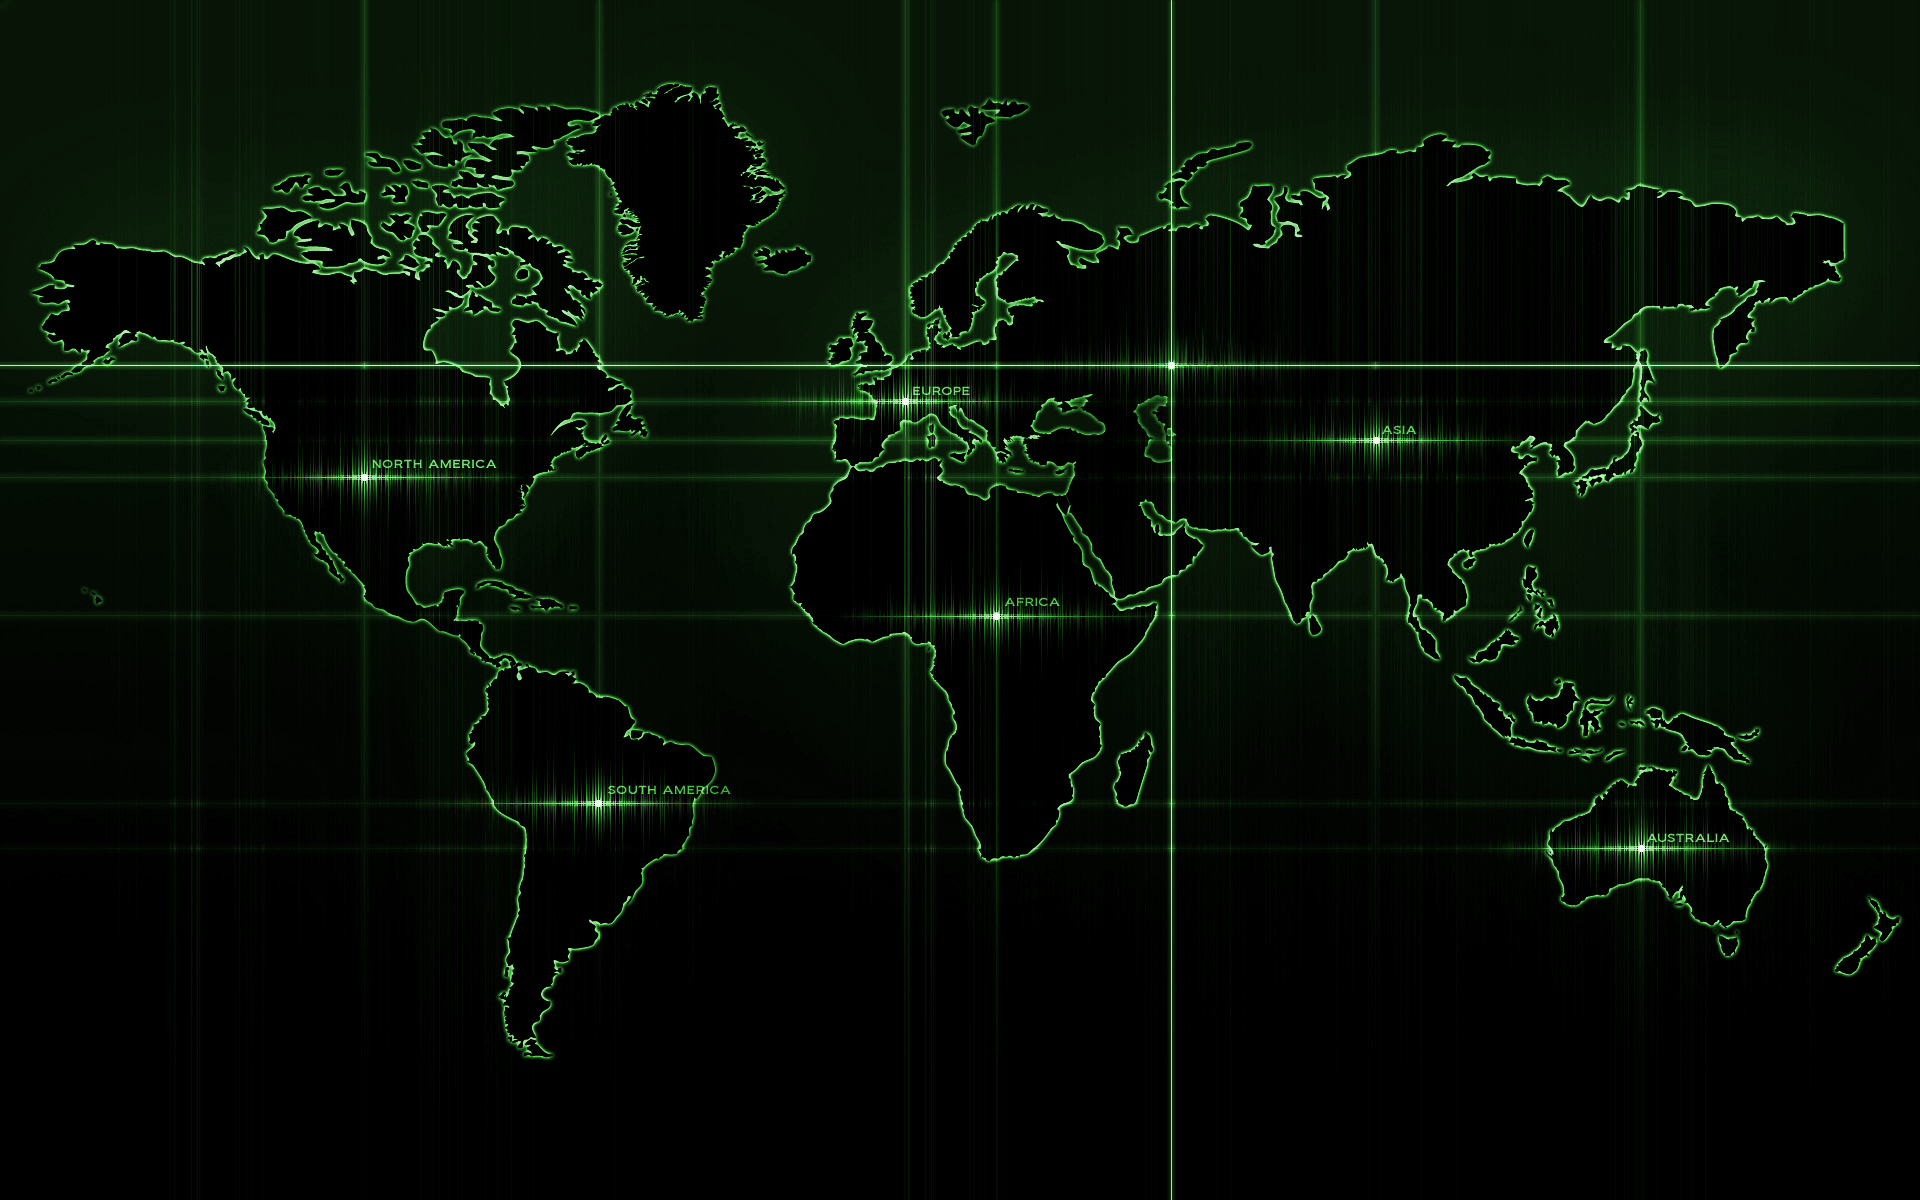
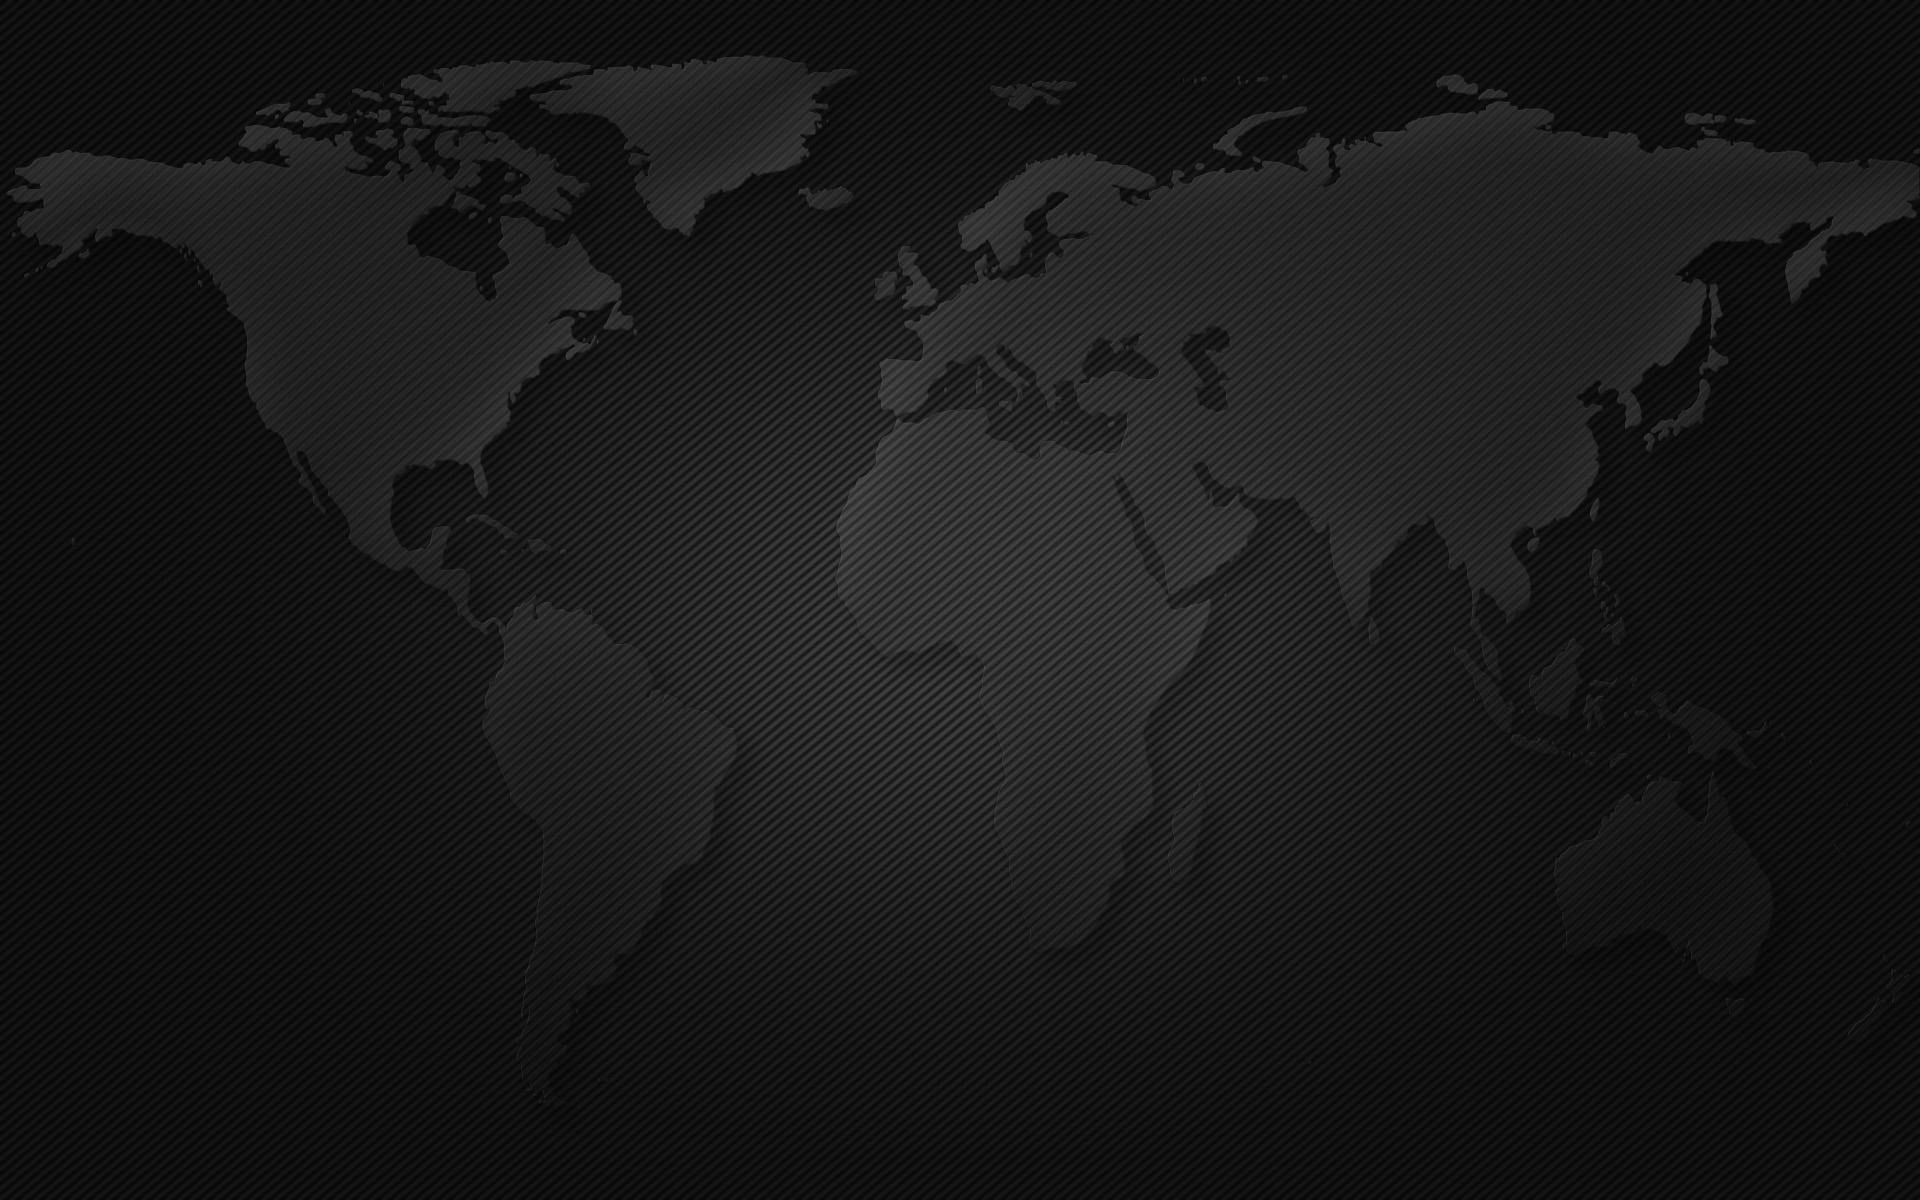
Changed background image.

diff --git a/public/index.html b/public/index.html
@@ -111,18 +111,6 @@
         font-weight: bold;
       }
 
-      #webbstjarnan
-      {
-          position: absolute;
-          top: 8px;
-          right: 8px;
-      }
-
-      #webbstjarnan img
-      {
-          width: 70px;
-      }
-
       #license
       {
           position: fixed;
@@ -132,7 +120,8 @@
 
       .dialog_text
       {
-          color: white;
+          /*color: white;*/
+	  color: #00FF00;
           background-color: black;
           padding: 20px;
           height: 100%;
@@ -147,7 +136,8 @@
           top: 0;
           border: 1px solid white;
           background-color: black;
-          color: white;
+	  color: #00FF00;
+          /*color: white;*/
           display: none;
           z-index: 100;
           -webkit-border-top-left-radius: 10px;
@@ -370,7 +360,7 @@
       </div>
       <div class="dialog_header"><span>Pictures</span></div>
       <div class="dialog_content">
-        <h1>Pictures</h1>
+        <h1><font color='white'>Pictures</font></h1>
         <p>
           Some pictures from my <a href="https://www.flickr.com/photos/137506650@N05/sets/72157668477957746/">Flickr</a>
         </p>
@@ -390,7 +380,7 @@
       </div>
       <div class="dialog_header"><span>Coding</span></div>
       <div class="dialog_content">
-        <h1>Coding!</h1>
+        <h1><font color='white'>Coding!</font></h1>
         <p>
             You can find my sourcecode on github.<br/><br/>
             <a href='https://github.com/mikaelkall'>https://github.com/mikaelkall</a><br/><br/>
@@ -411,11 +401,11 @@
       </div>
       <div class="dialog_header"><span>About</span></div>
       <div class="dialog_content">
-        <h1>About</h1>
+        <h1><font color='white'>About</font></h1>
         <p>
             My name is Mikael Kall I'm dedicated with passion for computers and to learn more, my hobby has become my work.<br/><br/>
         </p>
-        <h1>Contact</h1>
+        <h1><font color='white'>Contact</font></h1>
         <p>
             <i>mail: kall.micke [at] gmail.com  </i><br/>
             <i>irc: nighter</i>
